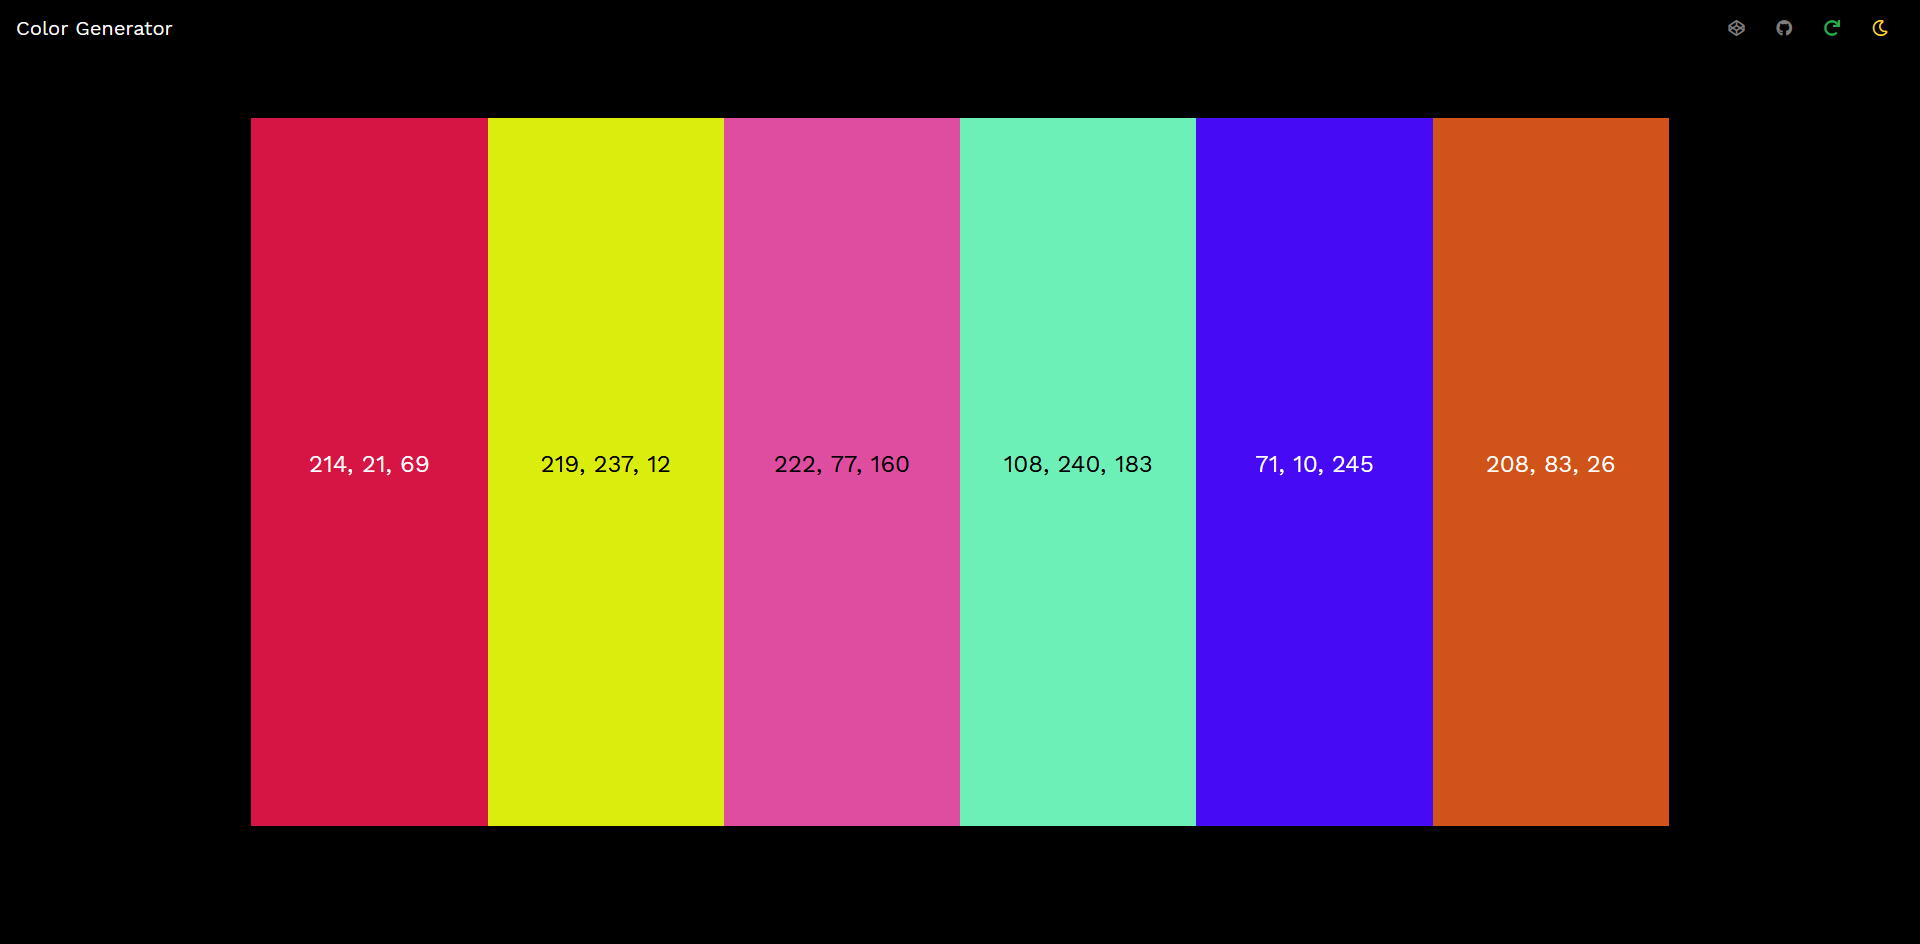
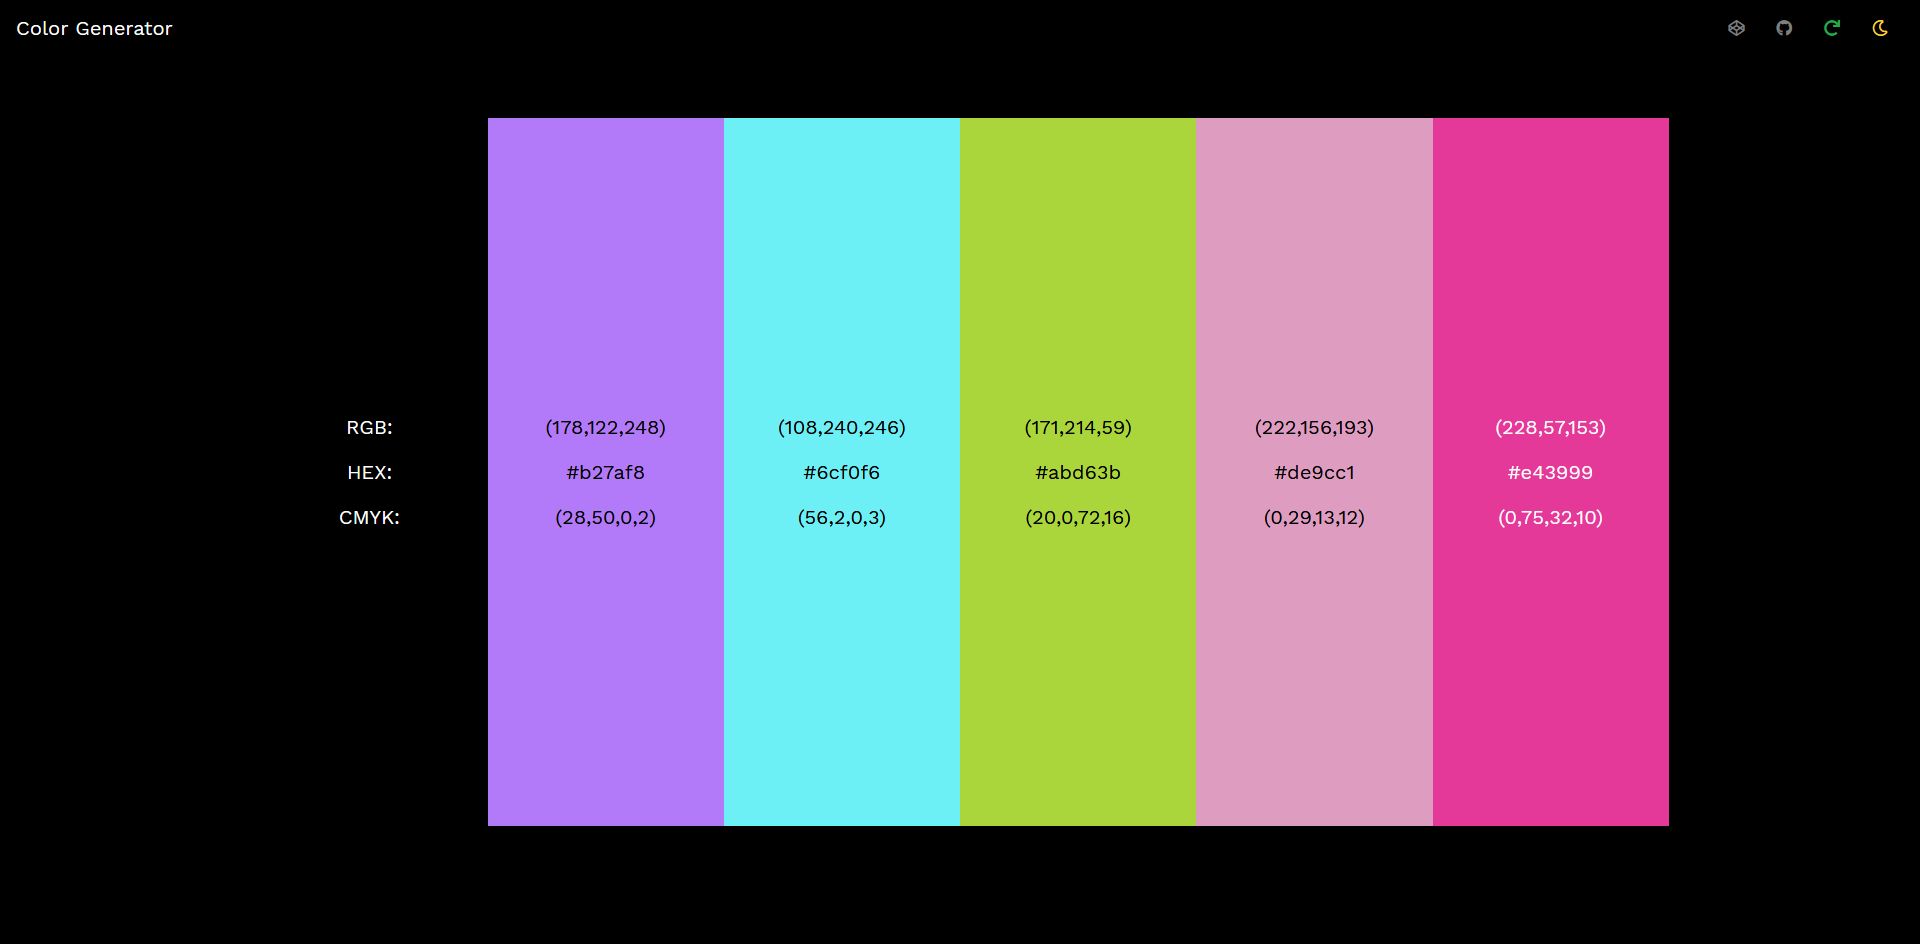
Update README.md

diff --git a/README.md b/README.md
@@ -1,9 +1,8 @@
 # Color Generator
- 
-This app generates 6 random colors using the rgb() format. A new palette can be generated using the refresh button and colors can be checked against black or white backgrounds by using the theme switcher button.
+
+This app generates 5 random colors using the rgb(), hex, and CMYK() formats. A new palette can be generated using the refresh button and colors can be checked against black or white backgrounds by using the theme switcher button.
 
 Hosted at: [Color Generator](https://r0b0-s1av3.github.io/color-generator/)
 
 ## Preview
 ![Preview Image](https://github.com/r0b0-s1av3/color-generator/blob/master/preview.png)
-![Preview Image](https://github.com/r0b0-s1av3/color-generator/blob/master/preview2.png)
